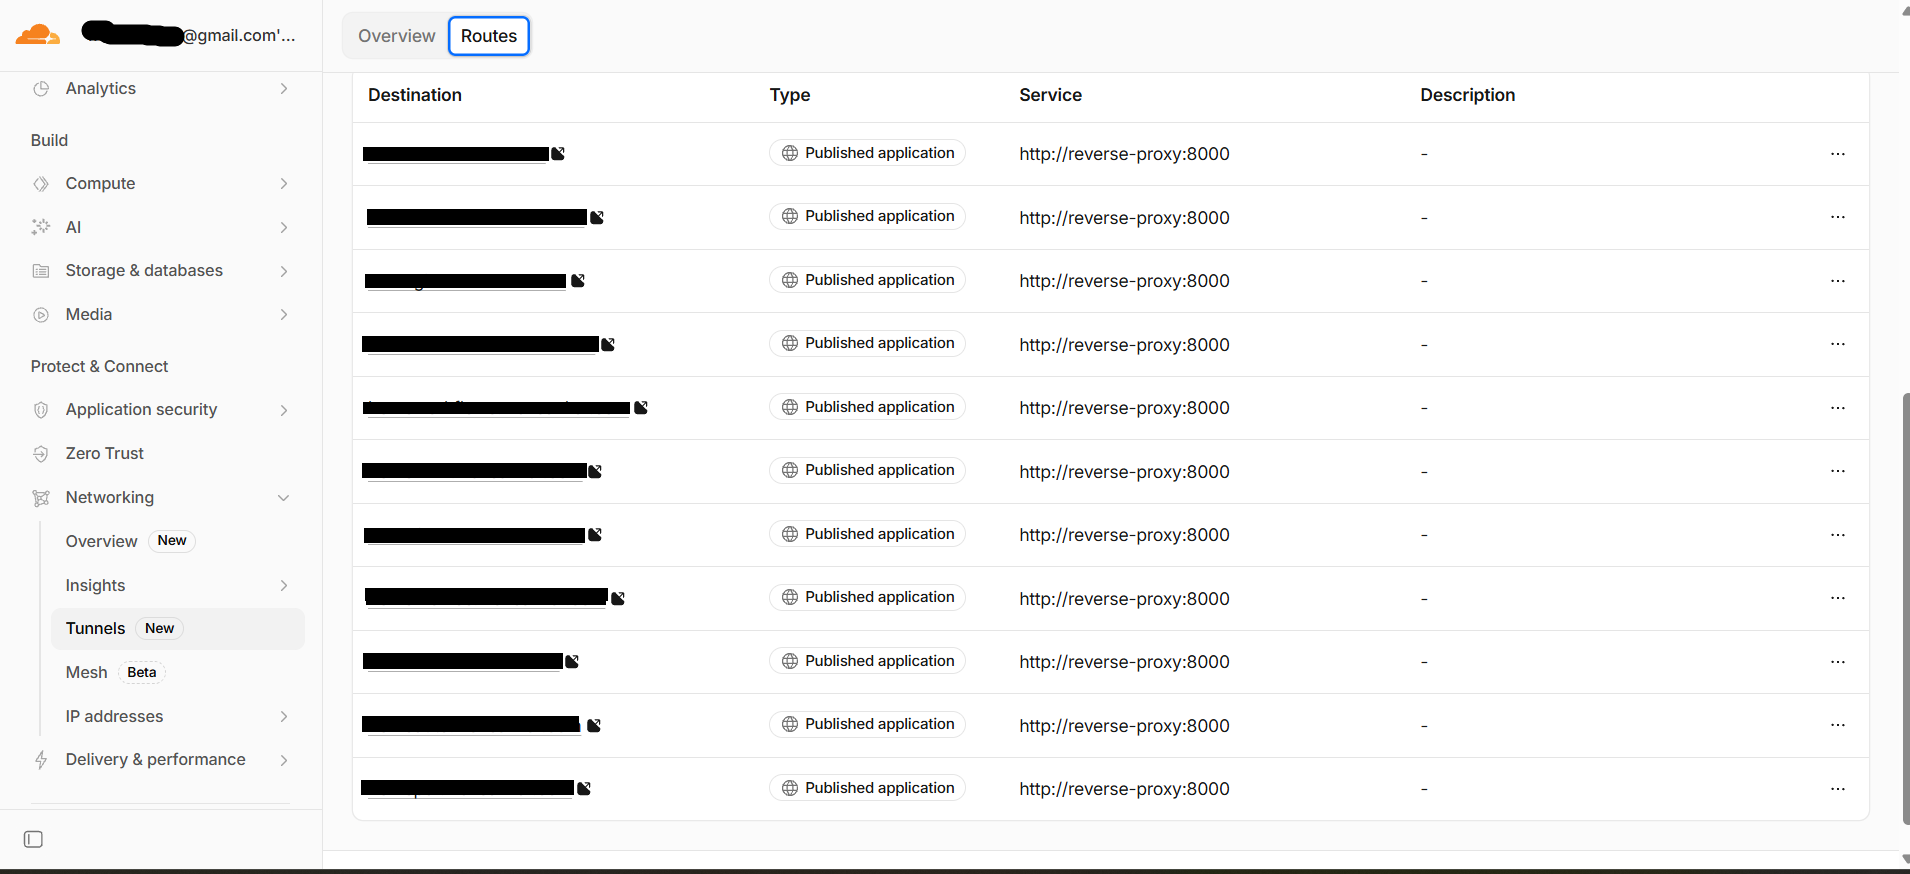
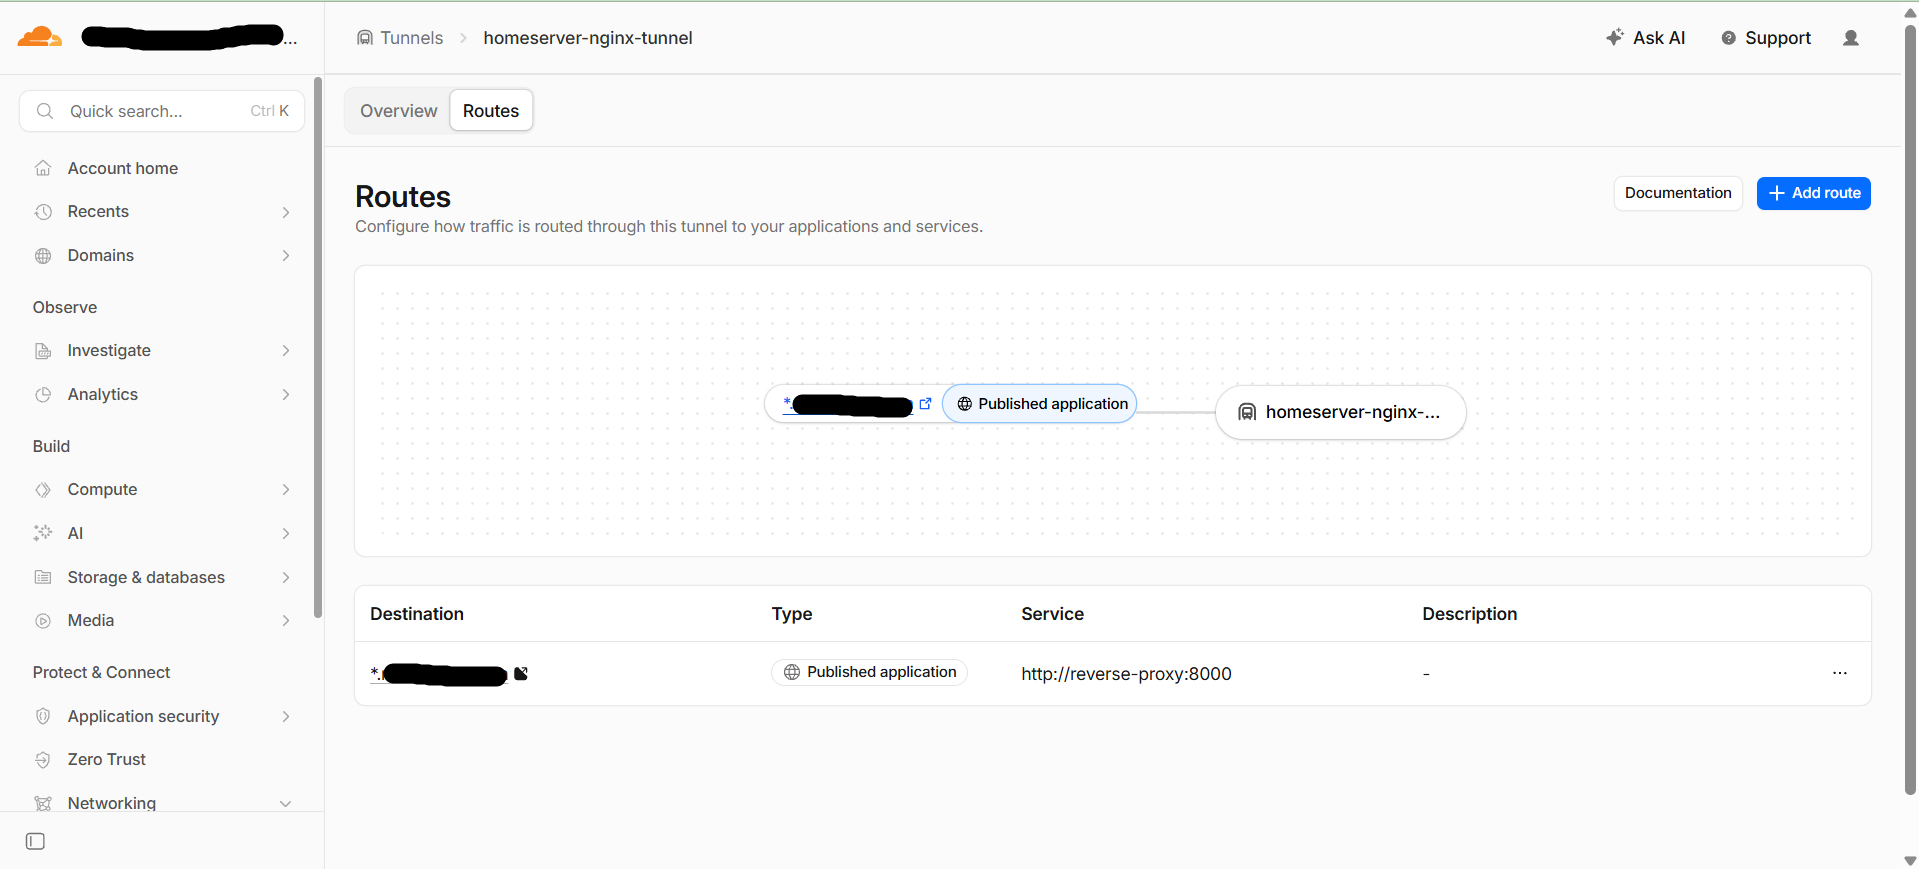
Fixed 1,2

diff --git a/_posts/2026-06-02-cloudflare-tunnels-no-port-forwarding.md b/_posts/2026-06-02-cloudflare-tunnels-no-port-forwarding.md
@@ -80,17 +80,17 @@ Back in the Cloudflare dashboard, add routes for each service. Each route maps a
 
 | Public Hostname | Service | URL |
 |----------------|---------|-----|
-| `landing.yourdomain.com` | HTTP | `http://reverse-proxy:8000` |
-| `books.yourdomain.com` | HTTP | `http://reverse-proxy:8000` |
-| `ai.yourdomain.com` | HTTP | `http://reverse-proxy:8000` |
+| `landing.yourdomain.com` | HTTP | `http://homepage:8000` |
+| `books.yourdomain.com` | HTTP | `http://kavita:5000` |
+| `ai.yourdomain.com` | HTTP | `http://open-webui:8080` |
+
+Or you can point a wildcard subdomain to a reverse proxy (like Nginx) that handles routing based on the hostname. This is what I do — all traffic goes to `cloudflared`, which forwards to Nginx, and Nginx routes to the right container. More on that in a later post.
 
 <p align="center">
   <img src="../assets/CloudflareTunnel/public_hostnames.png" alt="Cloudflare dashboard showing public hostname configuration">
   <br>
   <em>Each subdomain routes to the reverse proxy — Nginx handles the rest.</em>
 </p>
-
-Notice all routes point to the **reverse proxy**, not individual services. The reverse proxy (Nginx) handles routing based on the hostname. More on that in a later post.
 
 ## Architecture Overview
 

diff --git a/_posts/2026-06-01-from-broken-laptop-to-home-server.md b/_posts/2026-06-01-from-broken-laptop-to-home-server.md
@@ -57,7 +57,7 @@ No rack, no fancy hardware, no UPS. Just an old laptop doing honest work. For no
 
 It didn't start this clean. The path looked like this:
 
-1. **CMD window** — I honestly thought I'd try this for a couple weeks and abandon it. No point setting up WSL or Docker for a weekend experiment. So each service ran in its own CMD window. It worked until the first Windows Update restarted the laptop at 3 AM.
+1. **CMD window** — I honestly thought I'd try this for a couple weeks and abandon it. No point setting up WSL or Docker for a weekend experiment. So each service ran in its own CMD window. It worked for over a month — until a power outage killed everything and I had to restart each one manually.
 2. **Cloudflare tunnel** — ISP router had no port forwarding option. Cloudflare Tunnels solved public access without exposing ports.
 3. **MeshCentral** — Got tired of plugging in a monitor every time I needed to configure something. Self-hosted remote access fixed this.
 4. **Docker Desktop + WSL** — The jump that made everything maintainable. Containers restart themselves, survive updates, and configs are just YAML files.
